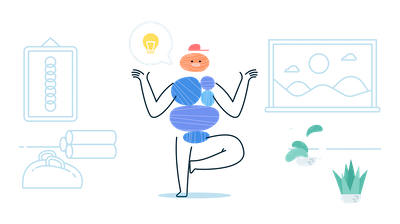
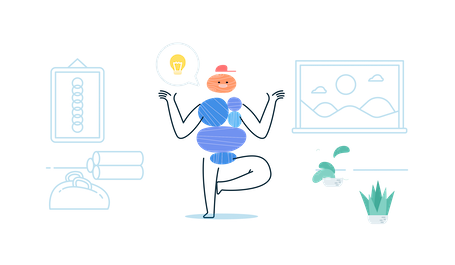
Ajustadas imágenes tarjetas Consulta Online

diff --git a/src/css/main.css b/src/css/main.css
@@ -334,7 +334,10 @@
 .online .img img {
     max-height: 100%;
     margin: 0 auto;
-    object-fit: cover;
+    object-fit: cover; 
+}
+
+.online [data-card="primera"] .img img {
     object-position: 35%;
 }
 
@@ -643,10 +646,6 @@
 
     .online .card + .card {
         margin-top: 0;
-    }
-
-    .online .img img {
-        object-fit: contain;
     }
 }
 
